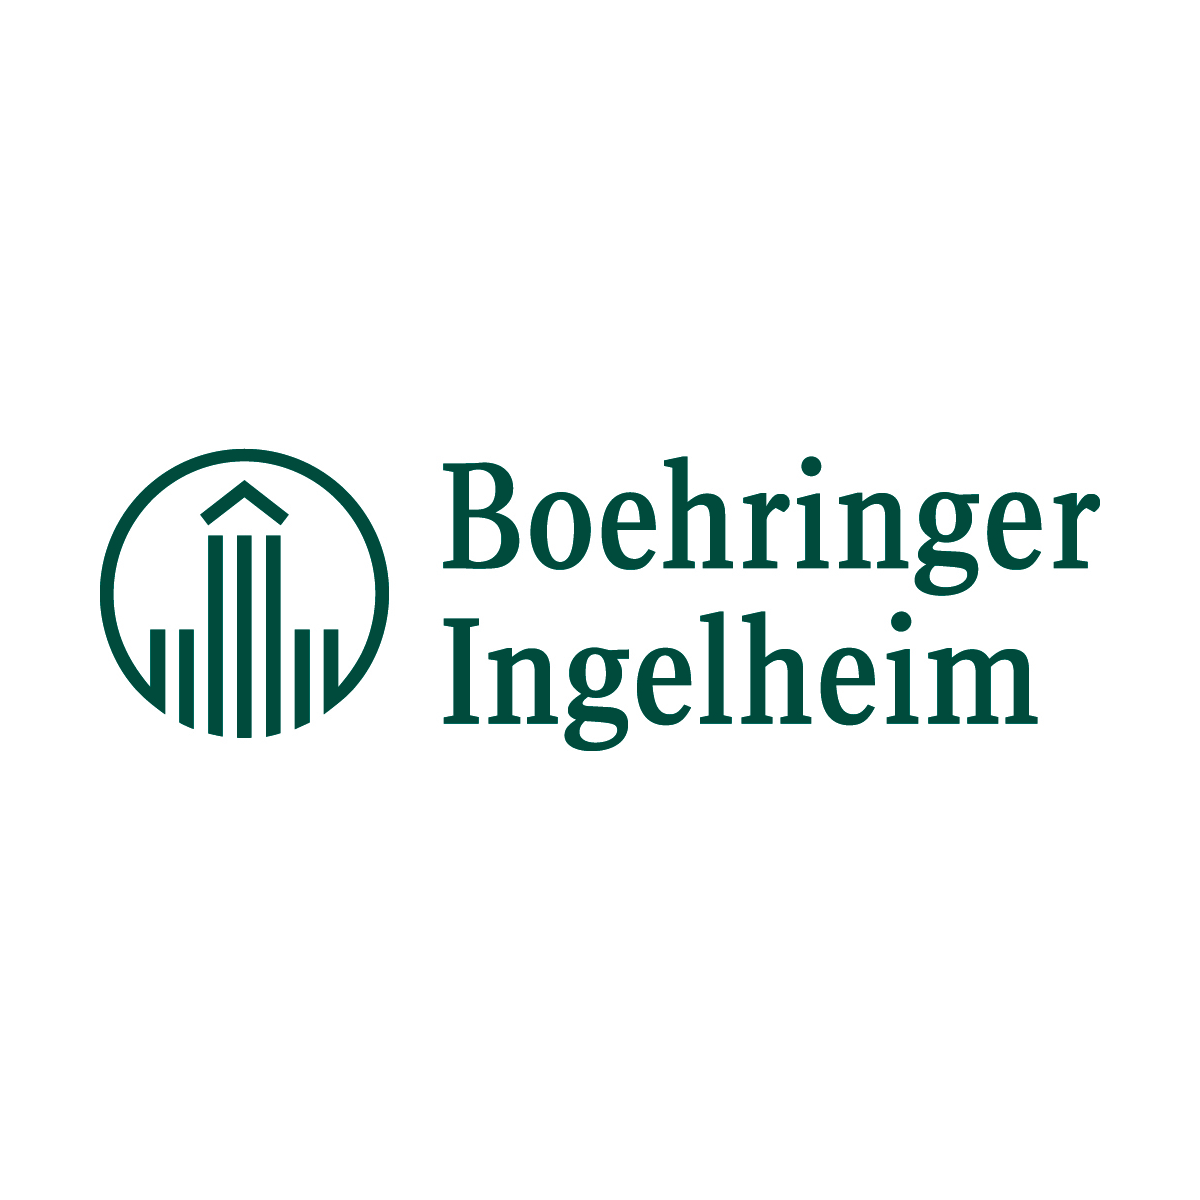
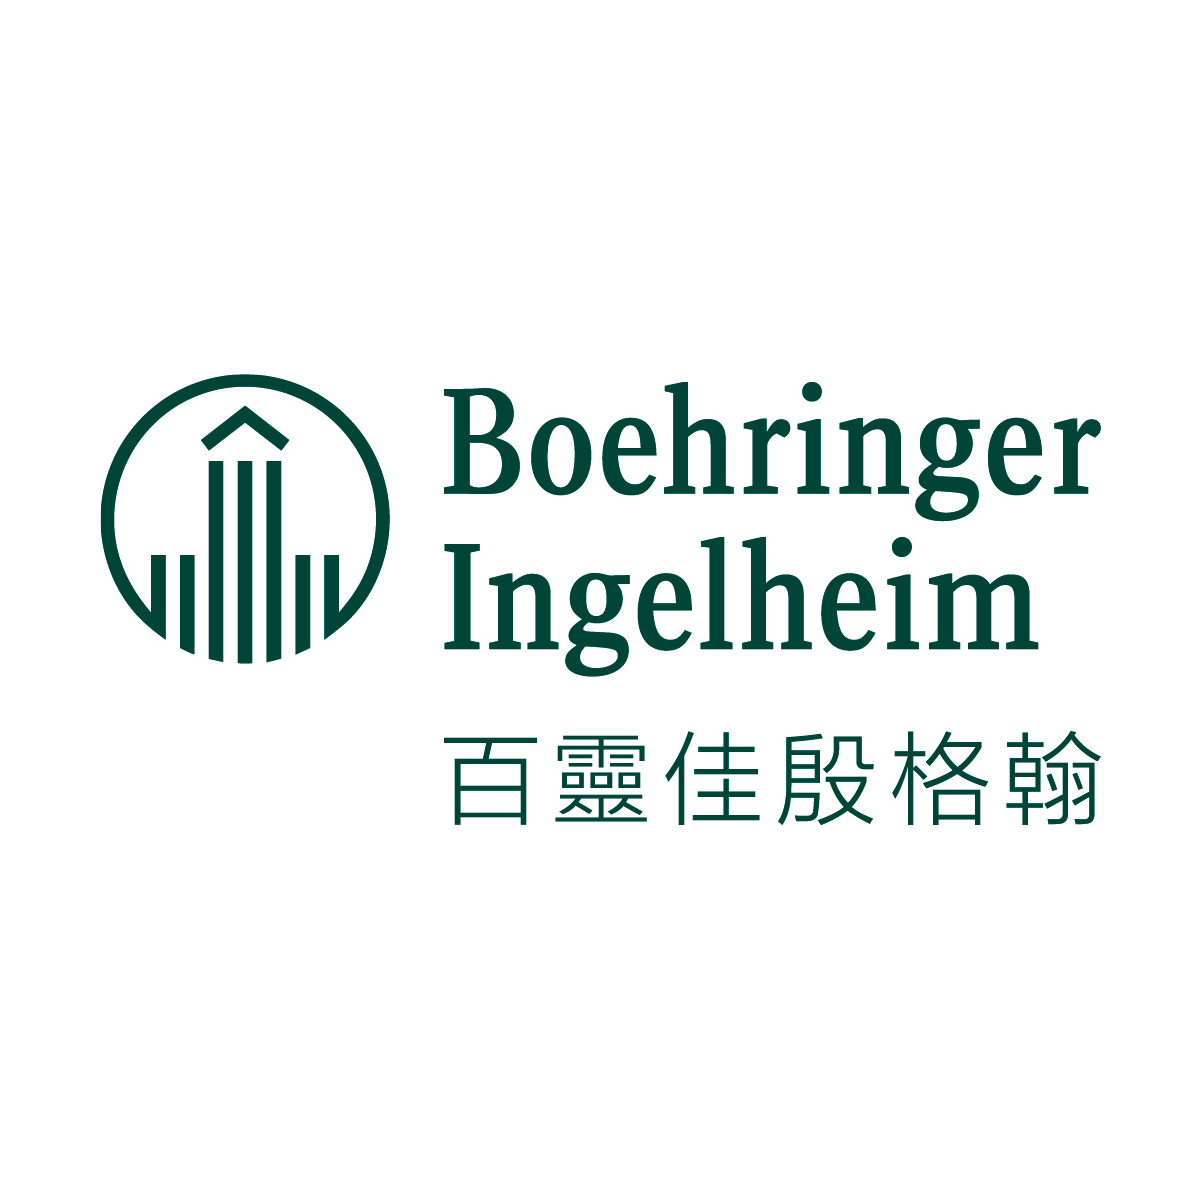
feat: 更新logo

Changed region(s): [[0.37, 0.3083, 0.925, 0.7092], [0.0617, 0.3083, 0.3392, 0.6167]]

diff --git a/src/containers/TrashPage/SponsorNote.js b/src/containers/TrashPage/SponsorNote.js
@@ -32,14 +32,14 @@ const logos = {
   ),
   百靈佳殷格翰: (
     <BackgroundImage
-      src={require("./sponsors/Boehringer_Logo.jpg").default}
-      ratio={1000 / 303}
+      src={require("./sponsors/Boehringer.png").default}
+      ratio={1}
     />
   ),
   雀巢: (
     <BackgroundImage
       src={require("./sponsors/nestle-wide.png").default}
-      ratio={960 / 480}
+      ratio={1200 / 693}
     />
   ),
 };
